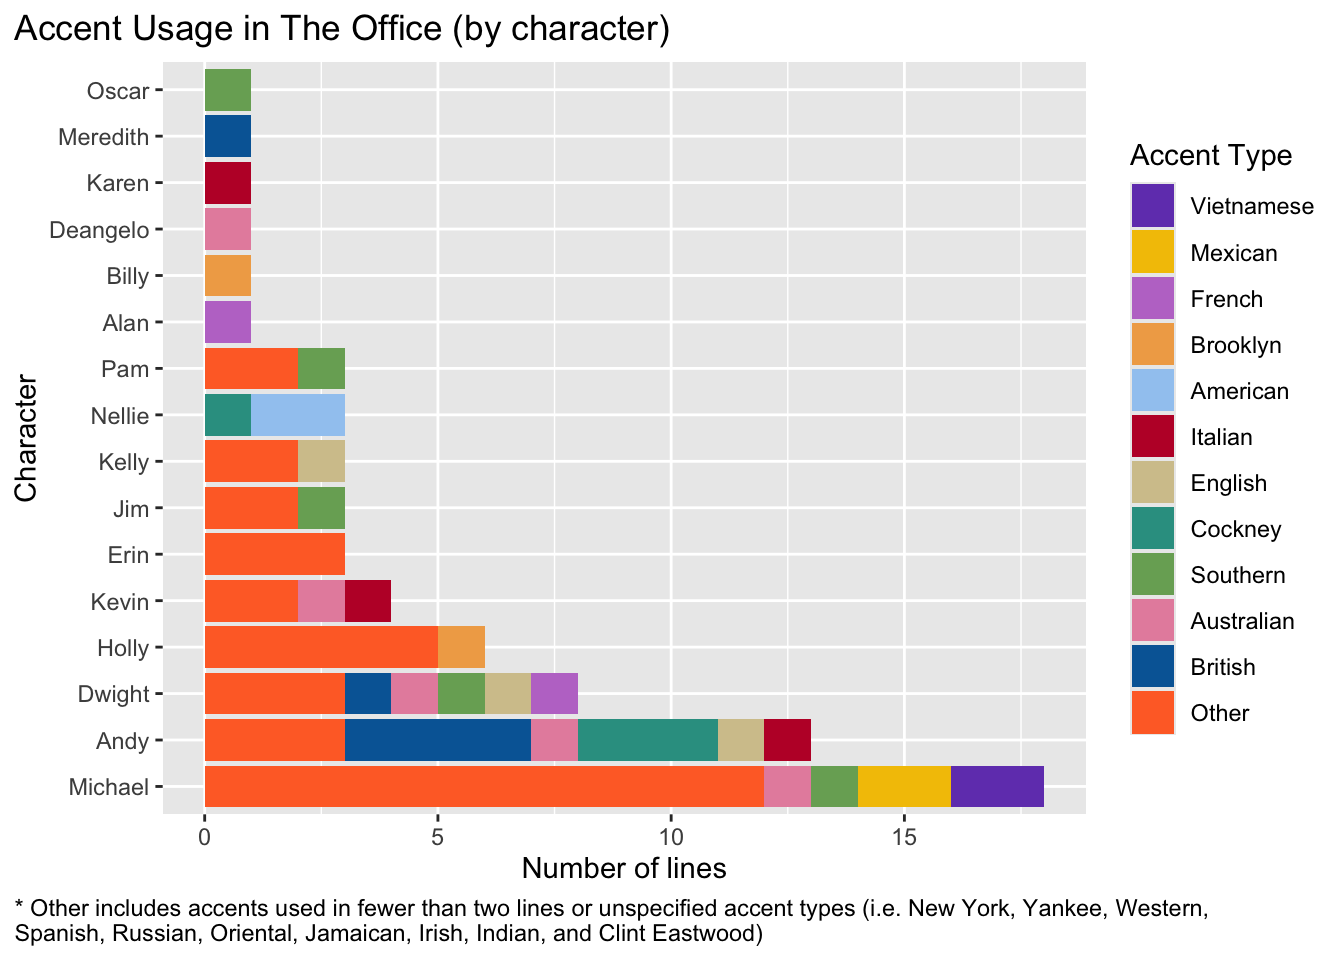
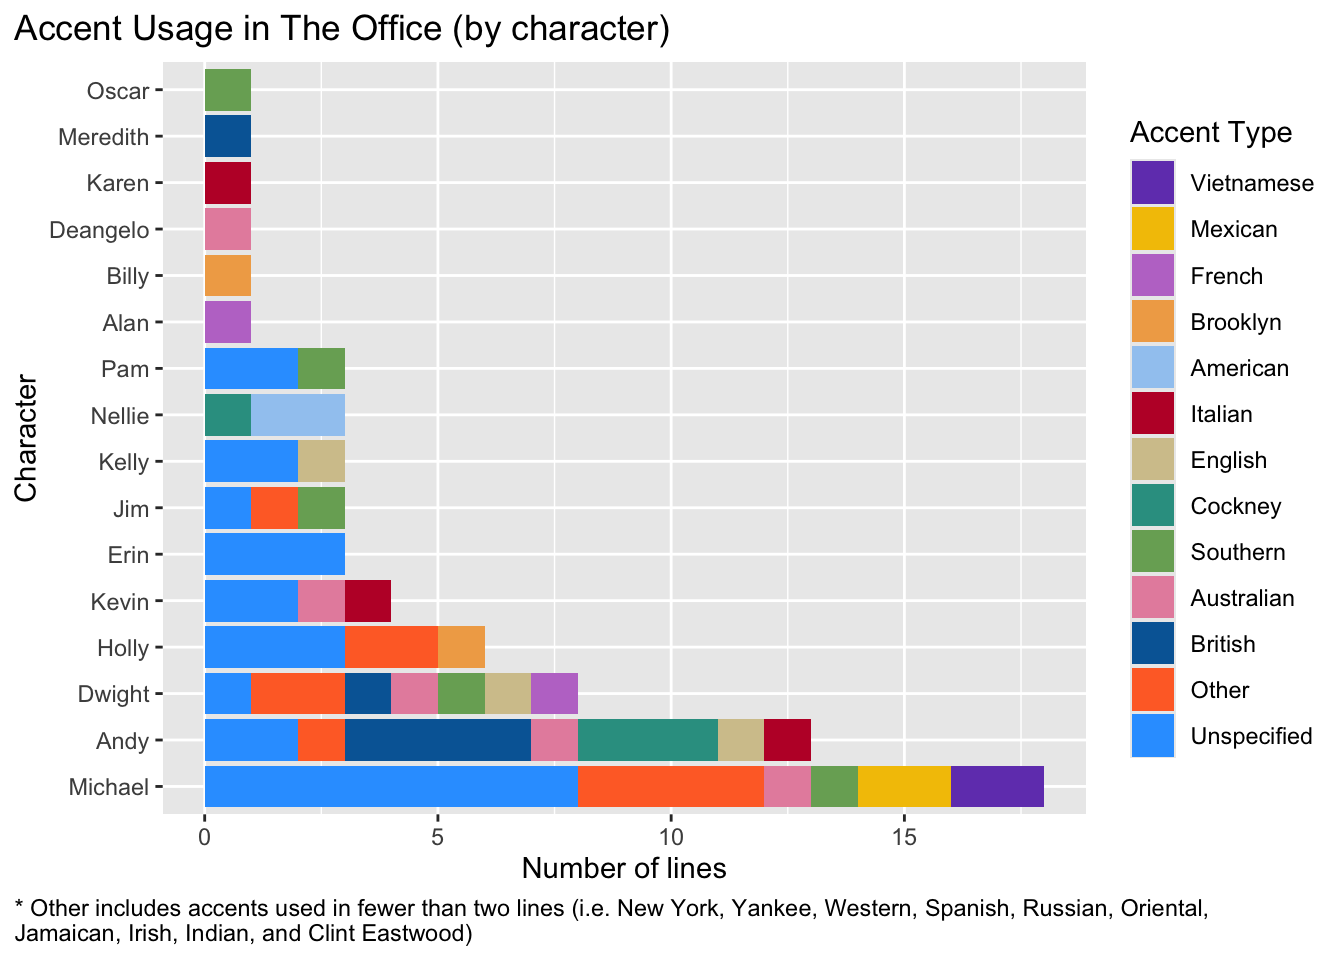
11/13

diff --git a/docs/office.html b/docs/office.html
@@ -151,6 +151,10 @@ pre > code.sourceCode > span > a:first-child::before { text-decoration: underlin
     <a class="dropdown-item" href="./office.html">
  <span class="dropdown-text">The Office Lines</span></a>
   </li>  
+        <li>
+    <a class="dropdown-item" href="./roomdraw.html">
+ <span class="dropdown-text">Pomona College Room Draw</span></a>
+  </li>  
     </ul>
   </li>
 </ul>
@@ -203,14 +207,14 @@ pre > code.sourceCode > span > a:first-child::before { text-decoration: underlin
 <span id="cb1-7"><a href="#cb1-7" aria-hidden="true" tabindex="-1"></a>    <span class="fu">mutate</span>(</span>
 <span id="cb1-8"><a href="#cb1-8" aria-hidden="true" tabindex="-1"></a>        <span class="at">accent_type =</span> <span class="fu">str_extract</span>(Line, <span class="st">"(</span><span class="sc">\\</span><span class="st">w+(?=</span><span class="sc">\\</span><span class="st">s+accent))"</span>),</span>
 <span id="cb1-9"><a href="#cb1-9" aria-hidden="true" tabindex="-1"></a>        <span class="at">accent_type =</span> <span class="fu">str_to_title</span>(accent_type),</span>
-<span id="cb1-10"><a href="#cb1-10" aria-hidden="true" tabindex="-1"></a>        <span class="at">accent_type =</span> <span class="fu">replace_na</span>(accent_type, <span class="st">"Other"</span>),</span>
+<span id="cb1-10"><a href="#cb1-10" aria-hidden="true" tabindex="-1"></a>        <span class="at">accent_type =</span> <span class="fu">replace_na</span>(accent_type, <span class="st">"Unspecified"</span>),</span>
 <span id="cb1-11"><a href="#cb1-11" aria-hidden="true" tabindex="-1"></a>        <span class="at">accent_type =</span> <span class="fu">as.factor</span>(accent_type),</span>
 <span id="cb1-12"><a href="#cb1-12" aria-hidden="true" tabindex="-1"></a>        <span class="at">accent_type =</span> <span class="fu">fct_recode</span>(accent_type, </span>
 <span id="cb1-13"><a href="#cb1-13" aria-hidden="true" tabindex="-1"></a>            <span class="st">"New York"</span> <span class="ot">=</span> <span class="st">"York"</span>,</span>
 <span id="cb1-14"><a href="#cb1-14" aria-hidden="true" tabindex="-1"></a>            <span class="st">"Clint Eastwood"</span> <span class="ot">=</span> <span class="st">"Eastwood"</span>,</span>
 <span id="cb1-15"><a href="#cb1-15" aria-hidden="true" tabindex="-1"></a>            <span class="st">"Italian"</span> <span class="ot">=</span> <span class="st">"Itialian"</span>,</span>
 <span id="cb1-16"><a href="#cb1-16" aria-hidden="true" tabindex="-1"></a>            <span class="st">"Vietnamese"</span> <span class="ot">=</span> <span class="st">"Ping"</span>),</span>
-<span id="cb1-17"><a href="#cb1-17" aria-hidden="true" tabindex="-1"></a>        <span class="at">accent_type =</span> <span class="fu">fct_collapse</span>(accent_type, <span class="st">"Other"</span> <span class="ot">=</span> <span class="fu">c</span>(<span class="st">"In"</span>, <span class="st">"Using"</span>, <span class="st">"Feigning"</span>, <span class="st">"Her"</span>, <span class="st">"With"</span>, <span class="st">"Same"</span>))</span>
+<span id="cb1-17"><a href="#cb1-17" aria-hidden="true" tabindex="-1"></a>        <span class="at">accent_type =</span> <span class="fu">fct_collapse</span>(accent_type, <span class="st">"Unspecified"</span> <span class="ot">=</span> <span class="fu">c</span>(<span class="st">"In"</span>, <span class="st">"Using"</span>, <span class="st">"Feigning"</span>, <span class="st">"Her"</span>, <span class="st">"With"</span>, <span class="st">"Same"</span>))</span>
 <span id="cb1-18"><a href="#cb1-18" aria-hidden="true" tabindex="-1"></a>    ) <span class="sc">|&gt;</span></span>
 <span id="cb1-19"><a href="#cb1-19" aria-hidden="true" tabindex="-1"></a>    <span class="fu">mutate</span>(<span class="at">accent_type1 =</span> <span class="fu">fct_lump_min</span>(accent_type, <span class="dv">2</span>),</span>
 <span id="cb1-20"><a href="#cb1-20" aria-hidden="true" tabindex="-1"></a>        <span class="at">accent_type1 =</span> <span class="fu">fct_rev</span>(<span class="fu">fct_infreq</span>(accent_type1))</span>
@@ -224,7 +228,7 @@ pre > code.sourceCode > span > a:first-child::before { text-decoration: underlin
 <span id="cb1-28"><a href="#cb1-28" aria-hidden="true" tabindex="-1"></a>accent_colors <span class="ot">&lt;-</span> <span class="fu">c</span>(</span>
 <span id="cb1-29"><a href="#cb1-29" aria-hidden="true" tabindex="-1"></a>  <span class="st">"#7244bb"</span>, <span class="st">"#F3C300"</span>, <span class="st">"#be79cd"</span>, <span class="st">"#f0aa55"</span>,</span>
 <span id="cb1-30"><a href="#cb1-30" aria-hidden="true" tabindex="-1"></a>  <span class="st">"#A1CAF1"</span>, <span class="st">"#BE0032"</span>, <span class="st">"#d3c59b"</span>, <span class="st">"#309e91"</span>,</span>
-<span id="cb1-31"><a href="#cb1-31" aria-hidden="true" tabindex="-1"></a>  <span class="st">"#78ab64"</span>, <span class="st">"#E68FAC"</span>, <span class="st">"#0067A5"</span>, <span class="st">"#ff6e2f"</span></span>
+<span id="cb1-31"><a href="#cb1-31" aria-hidden="true" tabindex="-1"></a>  <span class="st">"#78ab64"</span>, <span class="st">"#E68FAC"</span>, <span class="st">"#0067A5"</span>, <span class="st">"#ff6e2f"</span>, <span class="st">"#2fa1ff"</span></span>
 <span id="cb1-32"><a href="#cb1-32" aria-hidden="true" tabindex="-1"></a>)</span>
 <span id="cb1-33"><a href="#cb1-33" aria-hidden="true" tabindex="-1"></a></span>
 <span id="cb1-34"><a href="#cb1-34" aria-hidden="true" tabindex="-1"></a><span class="fu">ggplot</span>(<span class="at">data =</span> accents, <span class="fu">aes</span>(<span class="at">x =</span> Character)) <span class="sc">+</span></span>
@@ -234,7 +238,7 @@ pre > code.sourceCode > span > a:first-child::before { text-decoration: underlin
 <span id="cb1-38"><a href="#cb1-38" aria-hidden="true" tabindex="-1"></a>        <span class="at">y =</span> <span class="st">"Number of lines"</span>,</span>
 <span id="cb1-39"><a href="#cb1-39" aria-hidden="true" tabindex="-1"></a>        <span class="at">fill =</span> <span class="st">"Accent Type"</span>,</span>
 <span id="cb1-40"><a href="#cb1-40" aria-hidden="true" tabindex="-1"></a>        <span class="at">color =</span> <span class="st">"Accent Type"</span>,</span>
-<span id="cb1-41"><a href="#cb1-41" aria-hidden="true" tabindex="-1"></a>        <span class="at">caption =</span> <span class="fu">str_wrap</span>(<span class="st">"* Other includes accents used in fewer than two lines or unspecified accent types (i.e. New York, Yankee, Western, Spanish, Russian, Oriental, Jamaican, Irish, Indian, and Clint Eastwood)"</span>, <span class="at">width =</span> <span class="dv">120</span>)</span>
+<span id="cb1-41"><a href="#cb1-41" aria-hidden="true" tabindex="-1"></a>        <span class="at">caption =</span> <span class="fu">str_wrap</span>(<span class="st">"* Other includes accents used in fewer than two lines (i.e. New York, Yankee, Western, Spanish, Russian, Oriental, Jamaican, Irish, Indian, and Clint Eastwood)"</span>, <span class="at">width =</span> <span class="dv">120</span>)</span>
 <span id="cb1-42"><a href="#cb1-42" aria-hidden="true" tabindex="-1"></a>    ) <span class="sc">+</span></span>
 <span id="cb1-43"><a href="#cb1-43" aria-hidden="true" tabindex="-1"></a>    <span class="fu">scale_fill_manual</span>(<span class="at">values =</span> accent_colors) <span class="sc">+</span></span>
 <span id="cb1-44"><a href="#cb1-44" aria-hidden="true" tabindex="-1"></a>    <span class="fu">theme</span>(<span class="at">plot.caption =</span> <span class="fu">element_text</span>(<span class="at">hjust =</span> <span class="dv">0</span>),</span>
@@ -272,16 +276,13 @@ pre > code.sourceCode > span > a:first-child::before { text-decoration: underlin
 <span id="cb2-16"><a href="#cb2-16" aria-hidden="true" tabindex="-1"></a>        <span class="at">y =</span> <span class="st">"Number of lines"</span>,</span>
 <span id="cb2-17"><a href="#cb2-17" aria-hidden="true" tabindex="-1"></a>        <span class="at">fill =</span> <span class="st">"Character"</span>,</span>
 <span id="cb2-18"><a href="#cb2-18" aria-hidden="true" tabindex="-1"></a>        <span class="at">color =</span> <span class="st">"Character"</span>,</span>
-<span id="cb2-19"><a href="#cb2-19" aria-hidden="true" tabindex="-1"></a>        <span class="at">caption =</span> <span class="fu">str_c</span>(</span>
-<span id="cb2-20"><a href="#cb2-20" aria-hidden="true" tabindex="-1"></a>            <span class="fu">str_wrap</span>(<span class="st">"* Other character includes characters who used accents in fewer than two lines (i.e. Oscar, Meredith, Karen, Billy, Deangelo, and Alan"</span>, <span class="at">width =</span> <span class="dv">120</span>), </span>
-<span id="cb2-21"><a href="#cb2-21" aria-hidden="true" tabindex="-1"></a>        <span class="st">"</span><span class="sc">\n\n</span><span class="st">"</span>,</span>
-<span id="cb2-22"><a href="#cb2-22" aria-hidden="true" tabindex="-1"></a>        <span class="fu">str_wrap</span>(<span class="st">"** Other accent type includes unspecified accent types"</span>, <span class="at">width =</span> <span class="dv">120</span>))</span>
-<span id="cb2-23"><a href="#cb2-23" aria-hidden="true" tabindex="-1"></a>    ) <span class="sc">+</span></span>
-<span id="cb2-24"><a href="#cb2-24" aria-hidden="true" tabindex="-1"></a>    <span class="fu">scale_fill_manual</span>(<span class="at">values =</span> character_colors) <span class="sc">+</span></span>
-<span id="cb2-25"><a href="#cb2-25" aria-hidden="true" tabindex="-1"></a>    <span class="fu">theme</span>(<span class="at">plot.caption =</span> <span class="fu">element_text</span>(<span class="at">hjust =</span> <span class="dv">0</span>), </span>
-<span id="cb2-26"><a href="#cb2-26" aria-hidden="true" tabindex="-1"></a>    <span class="at">plot.caption.position =</span> <span class="st">"plot"</span>,</span>
-<span id="cb2-27"><a href="#cb2-27" aria-hidden="true" tabindex="-1"></a>    <span class="at">plot.title =</span> <span class="fu">element_text</span>(<span class="at">hjust =</span> <span class="dv">0</span>),</span>
-<span id="cb2-28"><a href="#cb2-28" aria-hidden="true" tabindex="-1"></a>    <span class="at">plot.title.position =</span> <span class="st">"plot"</span>)</span></code></pre></div><button title="Copy to Clipboard" class="code-copy-button"><i class="bi"></i></button></div>
+<span id="cb2-19"><a href="#cb2-19" aria-hidden="true" tabindex="-1"></a>        <span class="at">caption =</span> <span class="fu">str_wrap</span>(<span class="st">"* Other character includes characters who used accents in fewer than two lines (i.e. Oscar, Meredith, Karen, Billy, Deangelo, and Alan"</span>, <span class="at">width =</span> <span class="dv">120</span>)</span>
+<span id="cb2-20"><a href="#cb2-20" aria-hidden="true" tabindex="-1"></a>    ) <span class="sc">+</span></span>
+<span id="cb2-21"><a href="#cb2-21" aria-hidden="true" tabindex="-1"></a>    <span class="fu">scale_fill_manual</span>(<span class="at">values =</span> character_colors) <span class="sc">+</span></span>
+<span id="cb2-22"><a href="#cb2-22" aria-hidden="true" tabindex="-1"></a>    <span class="fu">theme</span>(<span class="at">plot.caption =</span> <span class="fu">element_text</span>(<span class="at">hjust =</span> <span class="dv">0</span>), </span>
+<span id="cb2-23"><a href="#cb2-23" aria-hidden="true" tabindex="-1"></a>    <span class="at">plot.caption.position =</span> <span class="st">"plot"</span>,</span>
+<span id="cb2-24"><a href="#cb2-24" aria-hidden="true" tabindex="-1"></a>    <span class="at">plot.title =</span> <span class="fu">element_text</span>(<span class="at">hjust =</span> <span class="dv">0</span>),</span>
+<span id="cb2-25"><a href="#cb2-25" aria-hidden="true" tabindex="-1"></a>    <span class="at">plot.title.position =</span> <span class="st">"plot"</span>)</span></code></pre></div><button title="Copy to Clipboard" class="code-copy-button"><i class="bi"></i></button></div>
 </details>
 <div class="cell-output-display">
 <div>

diff --git a/docs/country.html b/docs/country.html
@@ -151,6 +151,10 @@ pre > code.sourceCode > span > a:first-child::before { text-decoration: underlin
     <a class="dropdown-item" href="./office.html">
  <span class="dropdown-text">The Office Lines</span></a>
   </li>  
+        <li>
+    <a class="dropdown-item" href="./roomdraw.html">
+ <span class="dropdown-text">Pomona College Room Draw</span></a>
+  </li>  
     </ul>
   </li>
 </ul>
@@ -195,21 +199,25 @@ pre > code.sourceCode > span > a:first-child::before { text-decoration: underlin
 <div class="cell">
 <details class="code-fold">
 <summary>Show the code</summary>
-<div class="code-copy-outer-scaffold"><div class="sourceCode cell-code" id="cb1"><pre class="sourceCode r code-with-copy"><code class="sourceCode r"><span id="cb1-1"><a href="#cb1-1" aria-hidden="true" tabindex="-1"></a>wordmentions <span class="ot">&lt;-</span> country_lyrics <span class="sc">|&gt;</span></span>
-<span id="cb1-2"><a href="#cb1-2" aria-hidden="true" tabindex="-1"></a>    <span class="fu">mutate</span>(<span class="at">beer =</span> <span class="fu">str_detect</span>(lyrics, <span class="st">"beer"</span>)) <span class="sc">|&gt;</span></span>
-<span id="cb1-3"><a href="#cb1-3" aria-hidden="true" tabindex="-1"></a>    <span class="fu">group_by</span>(artist) <span class="sc">|&gt;</span></span>
-<span id="cb1-4"><a href="#cb1-4" aria-hidden="true" tabindex="-1"></a>    <span class="fu">summarize</span>(</span>
-<span id="cb1-5"><a href="#cb1-5" aria-hidden="true" tabindex="-1"></a>        <span class="at">number =</span> <span class="fu">n</span>(),</span>
-<span id="cb1-6"><a href="#cb1-6" aria-hidden="true" tabindex="-1"></a>        <span class="at">pct_beer =</span> <span class="fu">mean</span>(beer, <span class="at">na.rm =</span> <span class="cn">TRUE</span>)) <span class="sc">|&gt;</span></span>
-<span id="cb1-7"><a href="#cb1-7" aria-hidden="true" tabindex="-1"></a>    <span class="fu">filter</span>(number<span class="sc">&gt;=</span><span class="dv">10</span>) </span>
-<span id="cb1-8"><a href="#cb1-8" aria-hidden="true" tabindex="-1"></a></span>
-<span id="cb1-9"><a href="#cb1-9" aria-hidden="true" tabindex="-1"></a><span class="fu">ggplot</span>(<span class="at">data =</span> wordmentions, <span class="fu">aes</span>(<span class="at">x =</span> artist, <span class="at">y =</span> pct_beer)) <span class="sc">+</span></span>
-<span id="cb1-10"><a href="#cb1-10" aria-hidden="true" tabindex="-1"></a>    <span class="fu">geom_bar</span>(<span class="at">stat =</span> <span class="st">"identity"</span>) <span class="sc">+</span></span>
-<span id="cb1-11"><a href="#cb1-11" aria-hidden="true" tabindex="-1"></a>    <span class="fu">coord_flip</span>() <span class="sc">+</span></span>
-<span id="cb1-12"><a href="#cb1-12" aria-hidden="true" tabindex="-1"></a>    <span class="fu">labs</span>(</span>
-<span id="cb1-13"><a href="#cb1-13" aria-hidden="true" tabindex="-1"></a>        <span class="at">x =</span> <span class="st">"Artist"</span>, </span>
-<span id="cb1-14"><a href="#cb1-14" aria-hidden="true" tabindex="-1"></a>        <span class="at">y =</span> <span class="st">"Percent of songs that mention beer"</span>,</span>
-<span id="cb1-15"><a href="#cb1-15" aria-hidden="true" tabindex="-1"></a>        <span class="at">title =</span> <span class="st">"Beer mentions by artists for </span><span class="sc">\n</span><span class="st">Top 30 country songs,  2013-2019"</span>)</span></code></pre></div><button title="Copy to Clipboard" class="code-copy-button"><i class="bi"></i></button></div>
+<div class="code-copy-outer-scaffold"><div class="sourceCode cell-code" id="cb1"><pre class="sourceCode r code-with-copy"><code class="sourceCode r"><span id="cb1-1"><a href="#cb1-1" aria-hidden="true" tabindex="-1"></a><span class="fu">library</span>(tidyverse)</span>
+<span id="cb1-2"><a href="#cb1-2" aria-hidden="true" tabindex="-1"></a></span>
+<span id="cb1-3"><a href="#cb1-3" aria-hidden="true" tabindex="-1"></a>country_lyrics <span class="ot">&lt;-</span> readr<span class="sc">::</span><span class="fu">read_csv</span>(<span class="st">'https://raw.githubusercontent.com/rfordatascience/tidytuesday/main/data/2026/2026-08-25/country_lyrics.csv'</span>)</span>
+<span id="cb1-4"><a href="#cb1-4" aria-hidden="true" tabindex="-1"></a></span>
+<span id="cb1-5"><a href="#cb1-5" aria-hidden="true" tabindex="-1"></a>wordmentions <span class="ot">&lt;-</span> country_lyrics <span class="sc">|&gt;</span></span>
+<span id="cb1-6"><a href="#cb1-6" aria-hidden="true" tabindex="-1"></a>    <span class="fu">mutate</span>(<span class="at">beer =</span> <span class="fu">str_detect</span>(lyrics, <span class="st">"beer"</span>)) <span class="sc">|&gt;</span></span>
+<span id="cb1-7"><a href="#cb1-7" aria-hidden="true" tabindex="-1"></a>    <span class="fu">group_by</span>(artist) <span class="sc">|&gt;</span></span>
+<span id="cb1-8"><a href="#cb1-8" aria-hidden="true" tabindex="-1"></a>    <span class="fu">summarize</span>(</span>
+<span id="cb1-9"><a href="#cb1-9" aria-hidden="true" tabindex="-1"></a>        <span class="at">number =</span> <span class="fu">n</span>(),</span>
+<span id="cb1-10"><a href="#cb1-10" aria-hidden="true" tabindex="-1"></a>        <span class="at">pct_beer =</span> <span class="fu">mean</span>(beer, <span class="at">na.rm =</span> <span class="cn">TRUE</span>)) <span class="sc">|&gt;</span></span>
+<span id="cb1-11"><a href="#cb1-11" aria-hidden="true" tabindex="-1"></a>    <span class="fu">filter</span>(number<span class="sc">&gt;=</span><span class="dv">10</span>) </span>
+<span id="cb1-12"><a href="#cb1-12" aria-hidden="true" tabindex="-1"></a></span>
+<span id="cb1-13"><a href="#cb1-13" aria-hidden="true" tabindex="-1"></a><span class="fu">ggplot</span>(<span class="at">data =</span> wordmentions, <span class="fu">aes</span>(<span class="at">x =</span> artist, <span class="at">y =</span> pct_beer)) <span class="sc">+</span></span>
+<span id="cb1-14"><a href="#cb1-14" aria-hidden="true" tabindex="-1"></a>    <span class="fu">geom_bar</span>(<span class="at">stat =</span> <span class="st">"identity"</span>) <span class="sc">+</span></span>
+<span id="cb1-15"><a href="#cb1-15" aria-hidden="true" tabindex="-1"></a>    <span class="fu">coord_flip</span>() <span class="sc">+</span></span>
+<span id="cb1-16"><a href="#cb1-16" aria-hidden="true" tabindex="-1"></a>    <span class="fu">labs</span>(</span>
+<span id="cb1-17"><a href="#cb1-17" aria-hidden="true" tabindex="-1"></a>        <span class="at">x =</span> <span class="st">"Artist"</span>, </span>
+<span id="cb1-18"><a href="#cb1-18" aria-hidden="true" tabindex="-1"></a>        <span class="at">y =</span> <span class="st">"Percent of songs that mention beer"</span>,</span>
+<span id="cb1-19"><a href="#cb1-19" aria-hidden="true" tabindex="-1"></a>        <span class="at">title =</span> <span class="st">"Beer mentions by artists for </span><span class="sc">\n</span><span class="st">Top 30 country songs,  2013-2019"</span>)</span></code></pre></div><button title="Copy to Clipboard" class="code-copy-button"><i class="bi"></i></button></div>
 </details>
 <div class="cell-output-display">
 <div>

diff --git a/docs/index.html b/docs/index.html
@@ -115,6 +115,10 @@ ul.task-list li input[type="checkbox"] {
     <a class="dropdown-item" href="./office.html">
  <span class="dropdown-text">The Office Lines</span></a>
   </li>  
+        <li>
+    <a class="dropdown-item" href="./roomdraw.html">
+ <span class="dropdown-text">Pomona College Room Draw</span></a>
+  </li>  
     </ul>
   </li>
 </ul>
